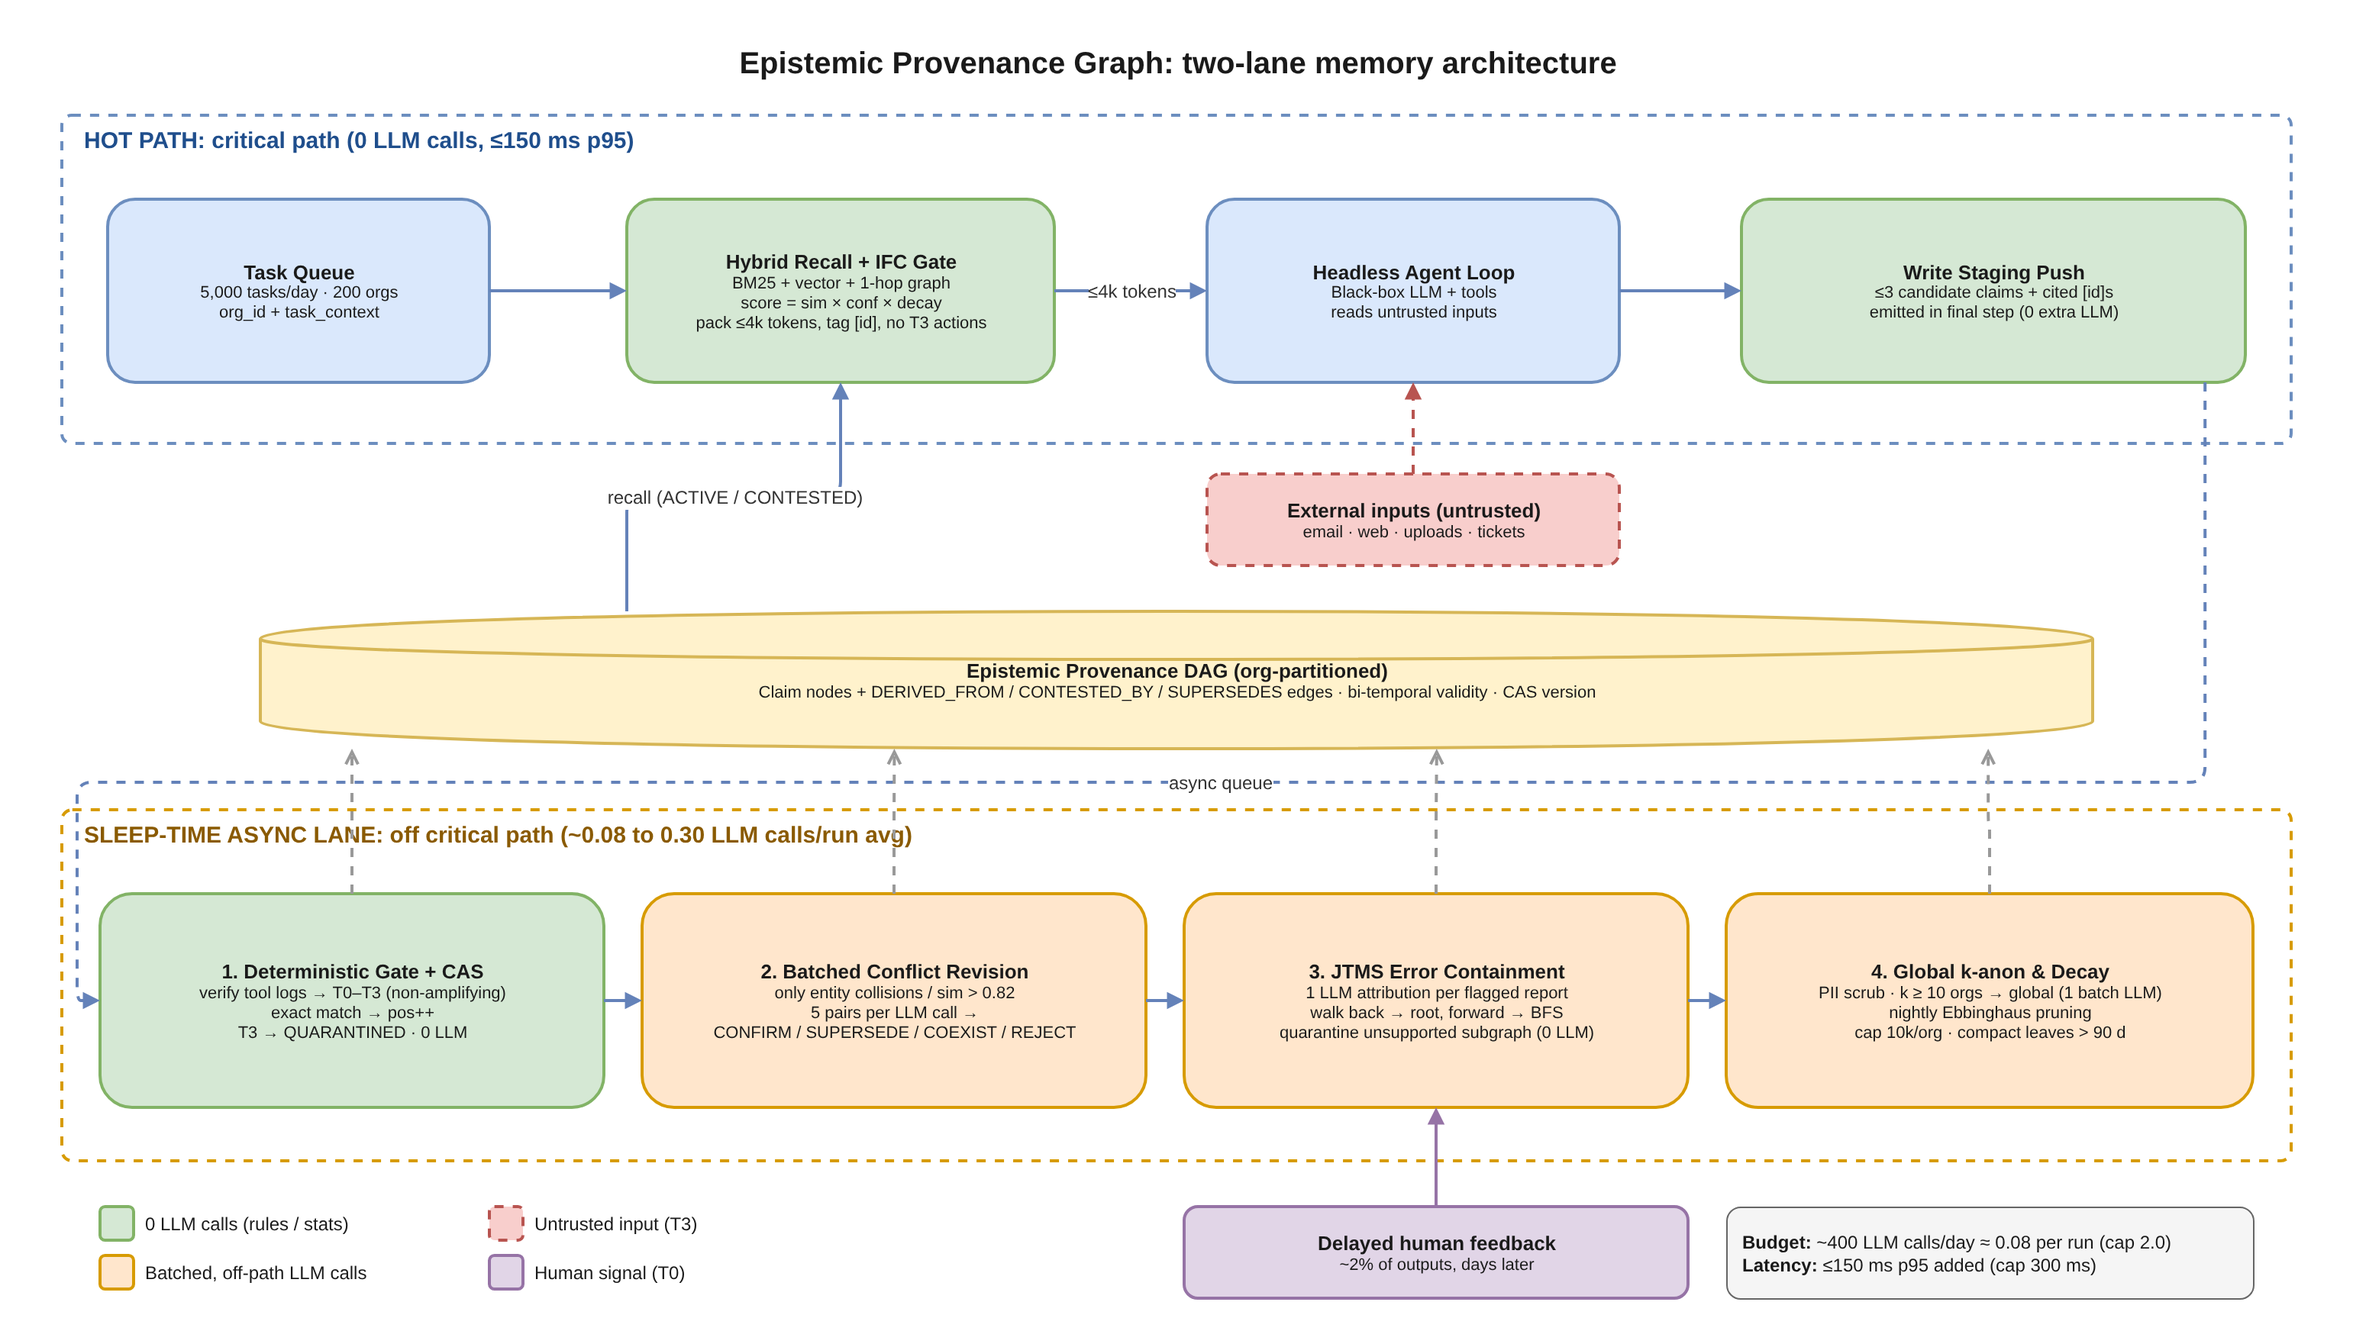
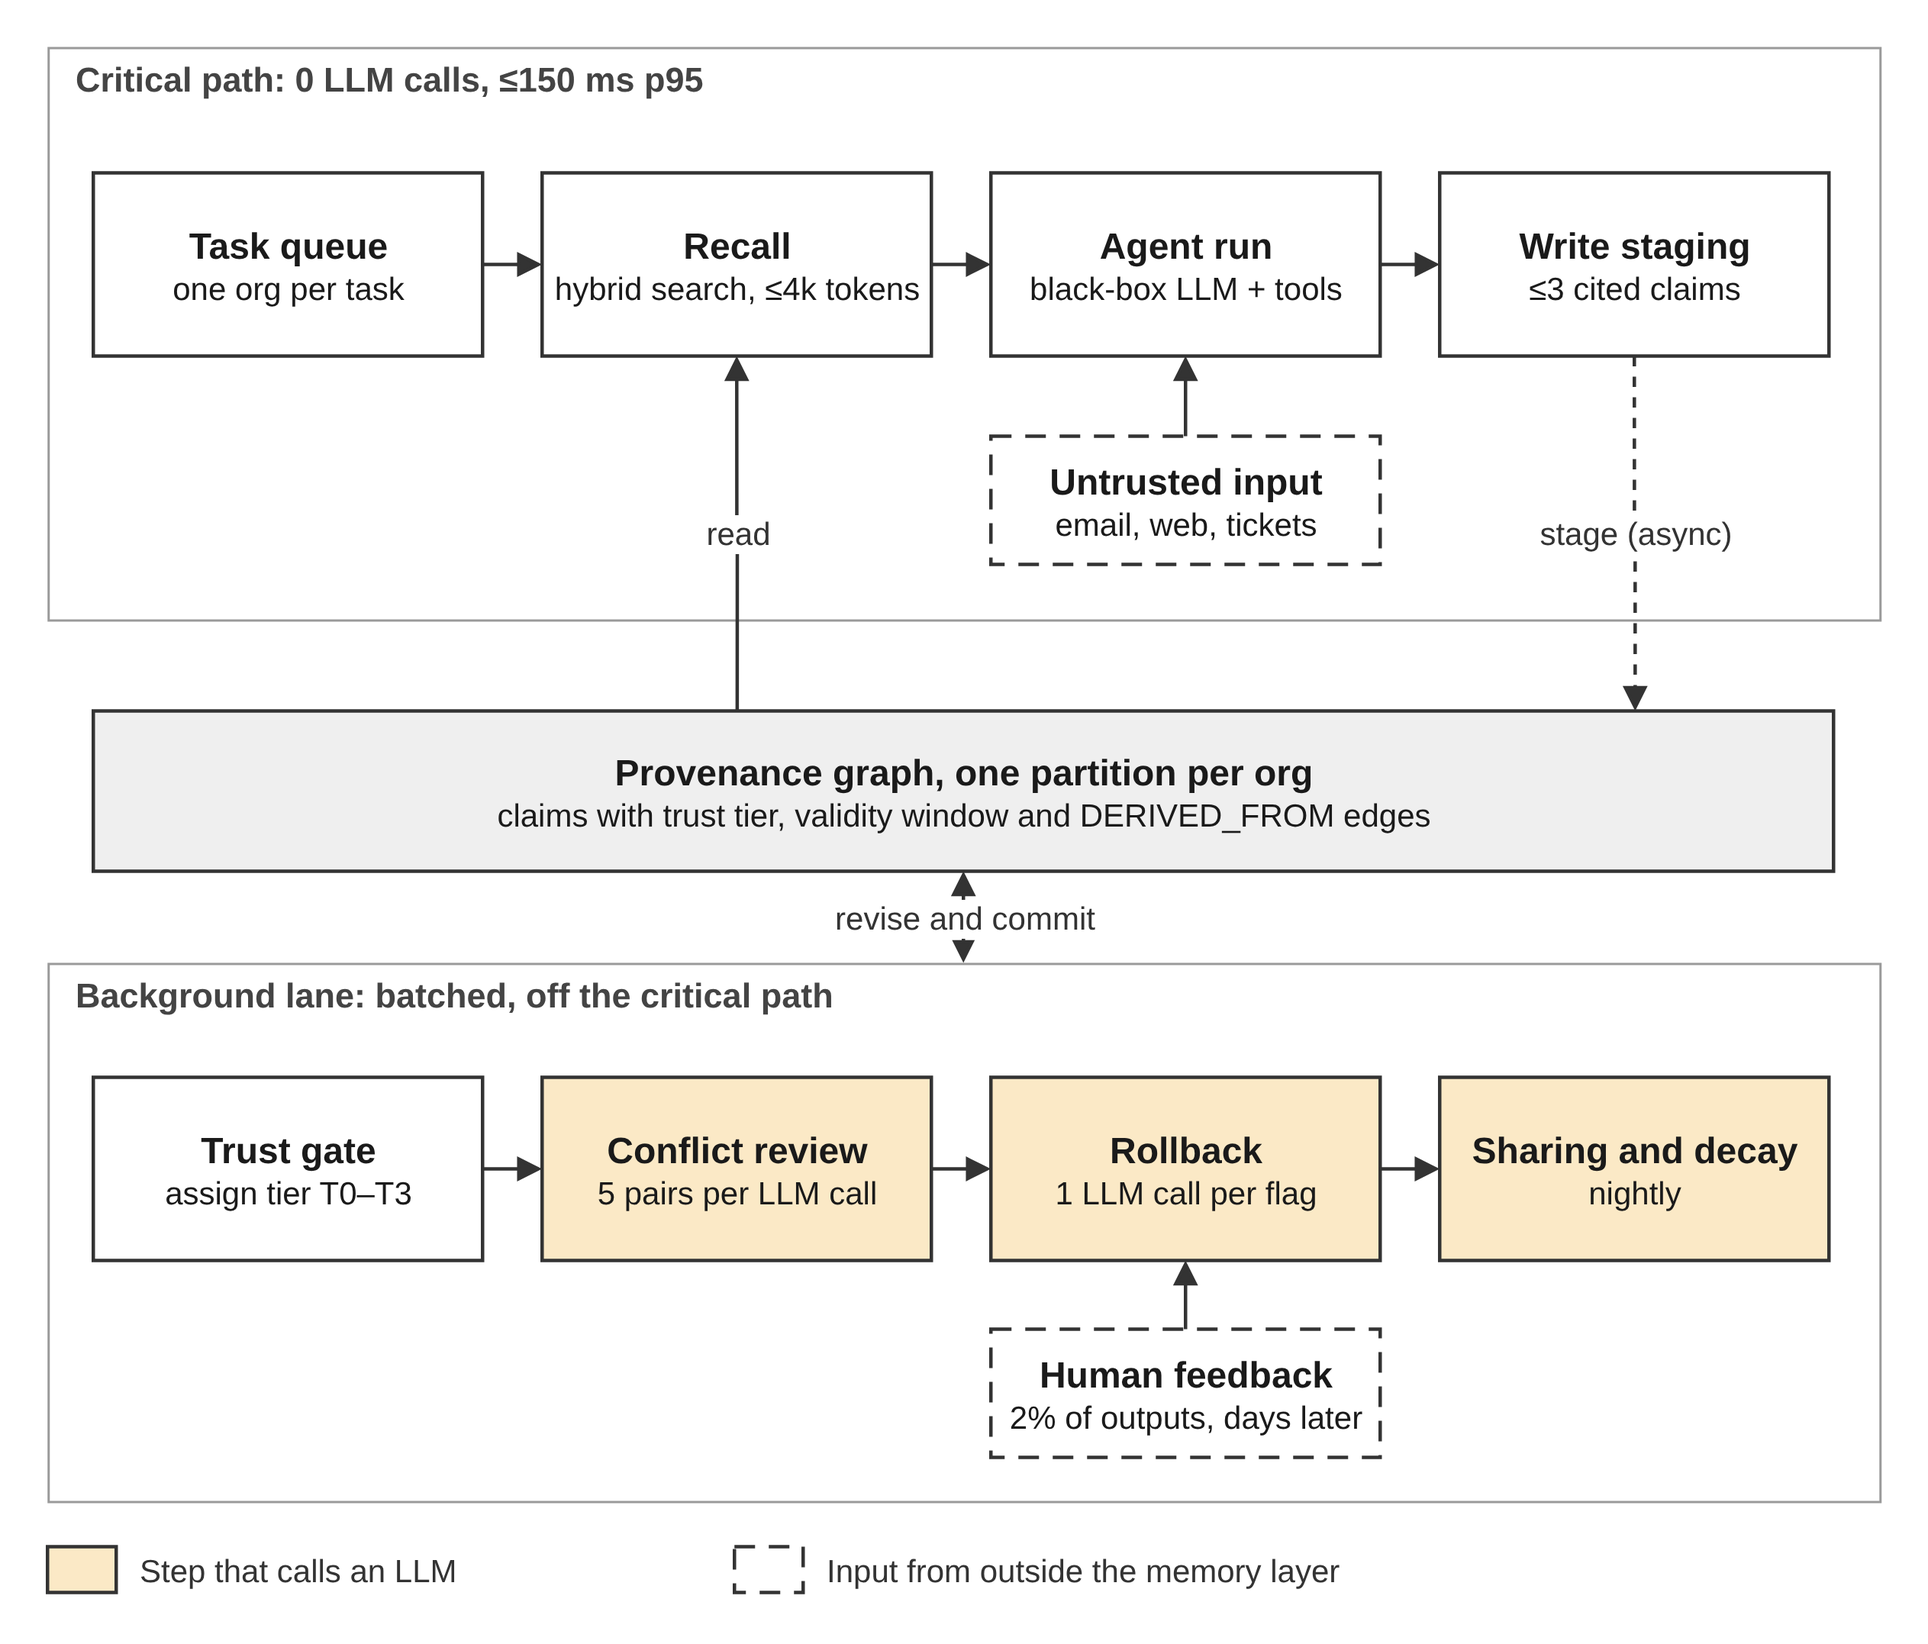
Redraw diagrams: larger text, uniform monochrome style, color only for LLM steps
Claude-Session: https://claude.ai/code/session_01SCDteJTP9pEhvMcnx8dkz2

diff --git a/diagrams/render.js b/diagrams/render.js
@@ -4,7 +4,7 @@ const puppeteer=require('puppeteer-core');const fs=require('fs');const path=requ
  const b=await puppeteer.launch({executablePath:'/usr/bin/google-chrome',args:['--no-sandbox']});
  for(const f of process.argv.slice(2)){
   const xml=fs.readFileSync(f,'utf8');
-  const p=await b.newPage(); await p.setViewport({width:1700,height:1200,deviceScaleFactor:2});
+  const p=await b.newPage(); await p.setViewport({width:1700,height:1200,deviceScaleFactor:3});
   await p.setContent(`<html><body style="margin:0;background:#fff"><div id="g" style="position:absolute;left:0;top:0;"></div><script>window.mxLoadResources=false;window.mxLoadStylesheets=false;window.mxBasePath='.';</script></body></html>`);
   await p.addScriptTag({content:mx});
   const box=await p.evaluate((xml)=>{
@@ -15,7 +15,7 @@ const puppeteer=require('puppeteer-core');const fs=require('fs');const path=requ
    const c=document.getElementById('g');c.style.width=(bb.width+40)+'px';c.style.height=(bb.height+40)+'px';
    return {w:Math.ceil(bb.width+40),h:Math.ceil(bb.height+40)};
   },xml);
-  await p.setViewport({width:box.w,height:box.h,deviceScaleFactor:2});
+  await p.setViewport({width:box.w,height:box.h,deviceScaleFactor:3});
   await p.screenshot({path:f.replace(/\.drawio$/,'.png'),clip:{x:0,y:0,width:box.w,height:box.h}});
   console.log(f,box);
  }

diff --git a/diagrams/make_drawio.py b/diagrams/make_drawio.py
@@ -1,90 +1,77 @@
 import html, sys
 from pathlib import Path
-
 class D:
     def __init__(s): s.cells=[]; s.n=2
     def id(s): s.n+=1; return f"c{s.n}"
-    def box(s,x,y,w,h,label,style,parent="1"):
-        i=s.id(); s.cells.append(f'<mxCell id="{i}" value="{html.escape(label)}" style="{style}" vertex="1" parent="{parent}"><mxGeometry x="{x}" y="{y}" width="{w}" height="{h}" as="geometry"/></mxCell>'); return i
+    def box(s,x,y,w,h,label,style):
+        i=s.id(); s.cells.append(f'<mxCell id="{i}" value="{html.escape(label)}" style="{style}" vertex="1" parent="1"><mxGeometry x="{x}" y="{y}" width="{w}" height="{h}" as="geometry"/></mxCell>'); return i
     def edge(s,a,b,label="",style="",pts=None):
-        i=s.id(); base="edgeStyle=orthogonalEdgeStyle;rounded=1;html=1;strokeWidth=2;endArrow=block;endFill=1;fontSize=12;labelBackgroundColor=#ffffff;fontColor=#333333;"
-        s.cells.append(f'<mxCell id="{i}" value="{html.escape(label)}" style="{base}{style}" edge="1" parent="1" source="{a}" target="{b}"><mxGeometry relative="1" as="geometry">'+(('<Array as="points">'+''.join(f'<mxPoint x="{x}" y="{y}"/>' for x,y in pts)+'</Array>') if pts else '')+'</mxGeometry></mxCell>'); return i
+        i=s.id(); base="edgeStyle=orthogonalEdgeStyle;rounded=0;html=1;strokeWidth=1.5;strokeColor=#333333;endArrow=block;endFill=1;endSize=7;fontSize=14;fontFamily=Helvetica;fontColor=#333333;labelBackgroundColor=#ffffff;"
+        p=('<Array as="points">'+''.join(f'<mxPoint x="{x}" y="{y}"/>' for x,y in pts)+'</Array>') if pts else ''
+        s.cells.append(f'<mxCell id="{i}" value="{html.escape(label)}" style="{base}{style}" edge="1" parent="1" source="{a}" target="{b}"><mxGeometry relative="1" as="geometry">{p}</mxGeometry></mxCell>'); return i
     def xml(s,name):
-        body="".join(s.cells)
-        return f'<mxfile host="drawio"><diagram name="{name}" id="{name}"><mxGraphModel dx="1400" dy="900" grid="0" gridSize="10" guides="1" tooltips="1" connect="1" arrows="1" fold="1" page="0" pageScale="1" pageWidth="1600" pageHeight="1000" math="0" shadow="0"><root><mxCell id="0"/><mxCell id="1" parent="0"/>{body}</root></mxGraphModel></diagram></mxfile>'
+        return f'<mxfile host="drawio"><diagram name="{name}" id="{name}"><mxGraphModel grid="0" page="0" math="0" shadow="0"><root><mxCell id="0"/><mxCell id="1" parent="0"/>{"".join(s.cells)}</root></mxGraphModel></diagram></mxfile>'
+F="html=1;whiteSpace=wrap;fontFamily=Helvetica;fontColor=#1a1a1a;"
+BOX=F+"rounded=0;fillColor=#ffffff;strokeColor=#333333;strokeWidth=1.5;fontSize=16;spacing=6;"
+LLM=F+"rounded=0;fillColor=#fbe9c6;strokeColor=#333333;strokeWidth=1.5;fontSize=16;spacing=6;"
+EXT=F+"rounded=0;fillColor=#ffffff;strokeColor=#333333;strokeWidth=1.5;dashed=1;dashPattern=6 4;fontSize=16;spacing=6;"
+STORE=F+"shape=cylinder;fillColor=#f2f2f2;strokeColor=#333333;strokeWidth=1.5;fontSize=16;"
+LANE=F+"rounded=0;fillColor=none;strokeColor=#9a9a9a;strokeWidth=1;verticalAlign=top;align=left;spacingLeft=10;spacingTop=4;fontSize=15;fontStyle=1;fontColor=#444444;"
+TXT="text;html=1;fillColor=none;strokeColor=none;fontFamily=Helvetica;fontColor=#333333;fontSize=14;align=left;verticalAlign=middle;whiteSpace=wrap;"
+def L(t,sub): return f"<b>{t}</b><br><span style='font-size:14px'>{sub}</span>"
+W=170; G=26; X0=20
 
-F="fontFamily=Helvetica;fontSize=13;html=1;whiteSpace=wrap;fontColor=#1a1a1a;"
-HOT=F+"rounded=1;fillColor=#dae8fc;strokeColor=#6c8ebf;strokeWidth=2;"
-EXT=F+"rounded=1;fillColor=#f8cecc;strokeColor=#b85450;strokeWidth=2;dashed=1;"
-ZERO=F+"rounded=1;fillColor=#d5e8d4;strokeColor=#82b366;strokeWidth=2;"
-LLM=F+"rounded=1;fillColor=#ffe6cc;strokeColor=#d79b00;strokeWidth=2;"
-HUM=F+"rounded=1;fillColor=#e1d5e7;strokeColor=#9673a6;strokeWidth=2;"
-GREY=F+"rounded=1;fillColor=#f5f5f5;strokeColor=#666666;strokeWidth=2;"
-LANE=F+"rounded=1;arcSize=3;fillColor=none;strokeWidth=2;dashed=1;verticalAlign=top;align=left;spacingLeft=12;spacingTop=6;fontStyle=1;fontSize=15;"
-DB=F+"shape=cylinder;fillColor=#fff2cc;strokeColor=#d6b656;strokeWidth=2;"
-TITLE="text;html=1;fillColor=none;strokeColor=none;fontColor=#1a1a1a;fontSize=20;fontStyle=1;align=center;verticalAlign=middle;fontFamily=Helvetica;"
-NOTE="text;html=1;fillColor=none;strokeColor=none;fontColor=#1a1a1a;fontSize=12;align=left;verticalAlign=middle;fontFamily=Helvetica;whiteSpace=wrap;"
-
-def b(t,sub): return f"<b>{t}</b><br><font style='font-size:11px'>{sub}</font>"
-
-# ---------- Figure 1: architecture ----------
+# ---- Figure 1 ----
 d=D()
-d.box(0,0,1500,40,"Epistemic Provenance Graph: two-lane memory architecture",TITLE)
-d.box(20,55,1460,215,"HOT PATH: critical path (0 LLM calls, ≤150 ms p95)",LANE+"strokeColor=#6c8ebf;fontColor=#1f4e8c;")
-q=d.box(50,110,250,120,b("Task Queue","5,000 tasks/day · 200 orgs<br>org_id + task_context"),HOT)
-r=d.box(390,110,280,120,b("Hybrid Recall + IFC Gate","BM25 + vector + 1-hop graph<br>score = sim × conf × decay<br>pack ≤4k tokens, tag [id], no T3 actions"),ZERO)
-a=d.box(770,110,270,120,b("Headless Agent Loop","Black-box LLM + tools<br>reads untrusted inputs"),HOT)
-w=d.box(1120,110,330,120,b("Write Staging Push","≤3 candidate claims + cited [id]s<br>emitted in final step (0 extra LLM)"),ZERO)
-ext=d.box(770,290,270,60,b("External inputs (untrusted)","email · web · uploads · tickets"),EXT)
-d.edge(q,r); d.edge(r,a,"≤4k tokens"); d.edge(a,w)
-d.edge(ext,a,"",  "dashed=1;strokeColor=#b85450;")
-dag=d.box(150,380,1200,90,b("Epistemic Provenance DAG (org-partitioned)","Claim nodes + DERIVED_FROM / CONTESTED_BY / SUPERSEDES edges · bi-temporal validity · CAS version"),DB)
-d.edge(dag,r,"recall (ACTIVE / CONTESTED)","exitX=0.2;exitY=0;entryX=0.5;entryY=1;")
-d.box(20,510,1460,230,"SLEEP-TIME ASYNC LANE: off critical path (~0.08 to 0.30 LLM calls/run avg)",LANE+"strokeColor=#d79b00;fontColor=#8a5a00;")
-g1=d.box(45,565,330,140,b("1. Deterministic Gate + CAS","verify tool logs → T0–T3 (non-amplifying)<br>exact match → pos++<br>T3 → QUARANTINED · 0 LLM"),ZERO)
-g2=d.box(400,565,330,140,b("2. Batched Conflict Revision","only entity collisions / sim > 0.82<br>5 pairs per LLM call →<br>CONFIRM / SUPERSEDE / COEXIST / REJECT"),LLM)
-g3=d.box(755,565,330,140,b("3. JTMS Error Containment","1 LLM attribution per flagged report<br>walk back → root, forward → BFS<br>quarantine unsupported subgraph (0 LLM)"),LLM)
-g4=d.box(1110,565,345,140,b("4. Global k-anon & Decay","PII scrub · k ≥ 10 orgs → global (1 batch LLM)<br>nightly Ebbinghaus pruning<br>cap 10k/org · compact leaves > 90 d"),LLM)
-d.edge(w,g1,"async queue","exitX=0.92;exitY=1;entryX=0;entryY=0.5;dashed=1;",[(1424,492),(30,492),(30,635)])
-d.edge(g1,g2); d.edge(g2,g3); d.edge(g3,g4)
-for g,cx in ((g1,210),(g2,565),(g3,920),(g4,1282)):
-    d.edge(g,dag,"","dashed=1;strokeColor=#999999;endArrow=open;exitX=0.5;exitY=0;entryY=1;entryX=%.3f;"%((cx-150)/1200))
-hf=d.box(755,770,330,60,b("Delayed human feedback","~2% of outputs, days later"),HUM)
-d.edge(hf,g3,"","strokeColor=#9673a6;")
-# legend
-d.box(45,770,22,22,"",ZERO); d.box(72,770,180,22,"0 LLM calls (rules / stats)",NOTE)
-d.box(45,802,22,22,"",LLM); d.box(72,802,220,22,"Batched, off-path LLM calls",NOTE)
-d.box(300,770,22,22,"",EXT); d.box(327,770,200,22,"Untrusted input (T3)",NOTE)
-d.box(300,802,22,22,"",HUM); d.box(327,802,200,22,"Human signal (T0)",NOTE)
-d.box(1110,770,345,60,"<b>Budget:</b> ~400 LLM calls/day ≈ 0.08 per run (cap 2.0)<br><b>Latency:</b> ≤150 ms p95 added (cap 300 ms)",NOTE+"fillColor=#f5f5f5;strokeColor=#666666;rounded=1;spacingLeft=8;")
+d.box(0,0,800,250,"Critical path: 0 LLM calls, ≤150 ms p95",LANE)
+y=55; xs=[X0+i*(W+G) for i in range(4)]
+q=d.box(xs[0],y,W,80,L("Task queue","one org per task"),BOX)
+r=d.box(xs[1],y,W,80,L("Recall","hybrid search, ≤4k tokens"),BOX)
+a=d.box(xs[2],y,W,80,L("Agent run","black-box LLM + tools"),BOX)
+w=d.box(xs[3],y,W,80,L("Write staging","≤3 cited claims"),BOX)
+d.edge(q,r); d.edge(r,a); d.edge(a,w)
+ext=d.box(xs[2],170,W,56,L("Untrusted input","email, web, tickets"),EXT)
+d.edge(ext,a)
+g=d.box(20,290,760,70,L("Provenance graph, one partition per org","claims with trust tier, validity window and DERIVED_FROM edges"),F+"rounded=0;fillColor=#efefef;strokeColor=#333333;strokeWidth=1.5;fontSize=16;")
+d.edge(g,r,"read",'exitX=%.3f;exitY=0;entryX=0.5;entryY=1;'%((xs[1]+W/2-20)/760))
+d.edge(w,g,"stage (async)",'exitX=0.5;exitY=1;entryX=%.3f;entryY=0;dashed=1;'%((xs[3]+W/2-20)/760))
+lane=d.box(0,400,800,235,"Background lane: batched, off the critical path",LANE)
+d.edge(lane,g,"revise and commit",'exitX=0.5;exitY=0;entryX=0.5;entryY=1;startArrow=block;startFill=1;')
+ys=450
+s1=d.box(xs[0],ys,W,80,L("Trust gate","assign tier T0–T3"),BOX)
+s2=d.box(xs[1],ys,W,80,L("Conflict review","5 pairs per LLM call"),LLM)
+s3=d.box(xs[2],ys,W,80,L("Rollback","1 LLM call per flag"),LLM)
+s4=d.box(xs[3],ys,W,80,L("Sharing and decay","nightly"),LLM)
+d.edge(s1,s2); d.edge(s2,s3); d.edge(s3,s4)
+hf=d.box(xs[2],560,W,56,L("Human feedback","2% of outputs, days later"),EXT)
+d.edge(hf,s3)
+d.box(0,655,30,20,"",LLM); d.box(38,653,280,24,"Step that calls an LLM",TXT)
+d.box(300,655,30,20,"",EXT); d.box(338,653,300,24,"Input from outside the memory layer",TXT)
 Path(sys.argv[1],"fig1_architecture.drawio").write_text(d.xml("Architecture"))
 
-# ---------- Figure 2: trust gate + rollback ----------
-d=D()
-d.box(0,0,1500,40,"Trust gating and causal rollback",TITLE)
-d.box(20,55,720,560,"A. IFC non-amplification and quarantine (scenarios 1 and 2)",LANE+"strokeColor=#b85450;fontColor=#8c2a26;")
-t=d.box(40,120,180,90,b("External ticket","T3_UNTRUSTED<br>“escalate to billing-help@acme-support.co”"),EXT)
-qz=d.box(290,120,180,90,b("QUARANTINED claim","prior (0,2) · conf 0.25<br>N × T3 repeats cannot promote"),GREY)
-sk=d.box(540,120,180,90,b("Action sink gate","blocks auto-CC to domains<br>not on Acme's T1 allowlist"),ZERO)
-d.edge(t,qz); d.edge(qz,sk,"hint only")
-v=d.box(40,330,180,100,b("Independent check","T1 CRM / DKIM / tool read<br>or T0 human approval"),HUM)
-ac=d.box(290,330,180,100,b("ACTIVE claim","new valid_from window<br>trust = min_trust(sources)"),ZERO)
-ol=d.box(540,330,180,100,b("Old claim","valid_to closed<br>→ SUPERSEDED (kept for audit)"),GREY)
-d.edge(sk,v,"triggered on next relevant task","exitX=0.5;exitY=1;entryX=0.5;entryY=0;")
-d.edge(v,ac,"corroborates"); d.edge(ac,ol,"SUPERSEDES")
-d.box(50,470,670,120,"<b>Rule:</b> a T3 claim may only add a CONTESTED_BY edge to a T0–T2 claim; it never silently overwrites one. Real updates are not lost: the sink gate turns them into a T1 check or a T0 approval request instead of an action. (0 LLM calls)",NOTE+"fillColor=#fff2cc;strokeColor=#d6b656;rounded=1;spacingLeft=10;")
-d.box(770,55,720,560,"B. Bidirectional JTMS rollback (scenario 3)",LANE+"strokeColor=#9673a6;fontColor=#5b3b73;")
-hf=d.box(790,120,200,90,b("Human flag","report #40 marked wrong<br>(days later)"),HUM)
-at=d.box(1030,120,200,90,b("Fault attribution","1 async LLM call over<br>the report's recalled [id]s"),LLM)
-rt=d.box(1270,120,190,90,b("C_utc (root)","walk DERIVED_FROM back<br>→ RETRACTED"),EXT)
+# ---- Figure 2 ----
+d=D(); W2=230; G2=35; xs=[X0+i*(W2+G2) for i in range(3)]
+d.box(0,0,800,300,"A. Write-time trust gate (scenarios 1 and 2)",LANE)
+t=d.box(xs[0],55,W2,80,L("Untrusted claim","from ticket text (T3)"),EXT)
+qz=d.box(xs[1],55,W2,80,L("Quarantined","stored as a hint only"),BOX)
+gate=d.box(xs[2],55,W2,80,L("Action gate","blocks external actions"),BOX)
+d.edge(t,qz); d.edge(qz,gate)
+v=d.box(xs[0],195,W2,80,L("Verification","tool read (T1) or human (T0)"),BOX)
+ac=d.box(xs[1],195,W2,80,L("Active claim","new validity window"),BOX)
+ol=d.box(xs[2],195,W2,80,L("Old claim","superseded, kept for audit"),BOX)
+d.edge(gate,v,"next relevant task",'exitX=0.5;exitY=1;entryX=0.5;entryY=0;',[(xs[2]+W2/2,165),(xs[0]+W2/2,165)])
+d.edge(v,ac); d.edge(ac,ol)
+d.box(0,330,800,320,"B. Rollback after a human flag (scenario 3)",LANE)
+hf=d.box(xs[0],385,W2,80,L("Human flag","one report marked wrong"),EXT)
+at=d.box(xs[1],385,W2,80,L("Fault attribution","1 LLM call"),LLM)
+rt=d.box(xs[2],385,W2,80,L("Root claim","retracted"),BOX)
 d.edge(hf,at); d.edge(at,rt)
-dq=d.box(1030,330,200,100,b("Derived claims A..M","supported only by C_utc<br>→ QUARANTINED (0 LLM)"),GREY)
-ds=d.box(1270,330,190,100,b("Derived claims N..O","have independent T1 support<br>→ stay ACTIVE, conf penalised"),ZERO)
-d.edge(rt,dq,"forward BFS","exitX=0.2;exitY=1;entryX=0.5;entryY=0;")
-d.edge(rt,ds,"keep if alt. support","exitX=0.5;exitY=1;entryX=0.5;entryY=0;")
-it=d.box(1290,450,150,50,b("Independent T1","alternate proof"),HOT)
-d.edge(it,ds,"","dashed=1;")
-lg=d.box(790,330,200,100,b("Audit log","40 affected run_ids<br>listed for review"),GREY)
-d.edge(dq,lg,"","dashed=1;")
-d.box(790,520,670,70,"<b>Effect:</b> future recall stops using every claim that rests only on the bad root; past reports are flagged by run_id, not rewritten.",NOTE+"fillColor=#fff2cc;strokeColor=#d6b656;rounded=1;spacingLeft=10;")
+dq=d.box(xs[1],545,W2,80,L("Claims built only on root","quarantined"),BOX)
+ds=d.box(xs[2],545,W2,80,L("Claims with other support","kept, confidence lowered"),BOX)
+lg=d.box(xs[0],545,W2,80,L("Affected runs","listed for review"),BOX)
+d.edge(rt,dq,"",'exitX=0.25;exitY=1;entryX=0.5;entryY=0;',[(xs[2]+W2*0.25,505),(xs[1]+W2/2,505)])
+d.edge(rt,ds,"",'exitX=0.75;exitY=1;entryX=0.5;entryY=0;')
+d.edge(dq,lg)
+d.box(0,670,30,20,"",LLM); d.box(38,668,330,24,"Step that calls an LLM",TXT)
+d.box(300,670,30,20,"",EXT); d.box(338,668,300,24,"Input from outside the memory layer",TXT)
 Path(sys.argv[1],"fig2_trust_and_rollback.drawio").write_text(d.xml("TrustRollback"))

diff --git a/diagrams/README.md b/diagrams/README.md
@@ -5,4 +5,4 @@
 
 Open the `.drawio` files in draw.io (app.diagrams.net or the desktop app) to edit.
 To regenerate: `python3 make_drawio.py .` then `npm i mxgraph@4.2.2 puppeteer-core && node render.js *.drawio`
-(PNG is rendered with mxGraph, draw.io's rendering engine, in headless Chrome at 2x).
+(PNG is rendered with mxGraph, draw.io's rendering engine, in headless Chrome at 3x).
